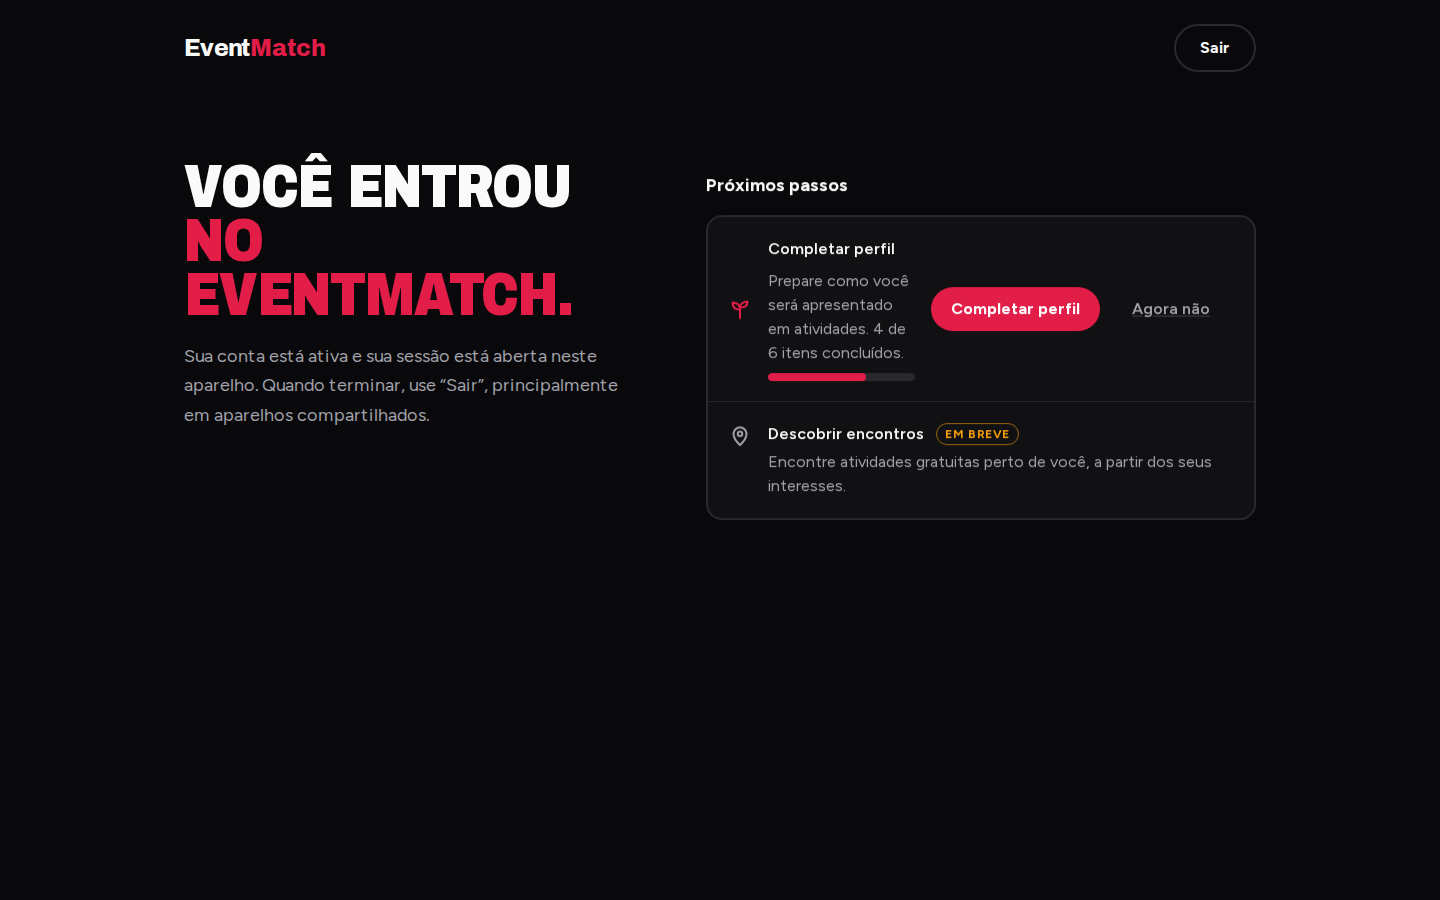
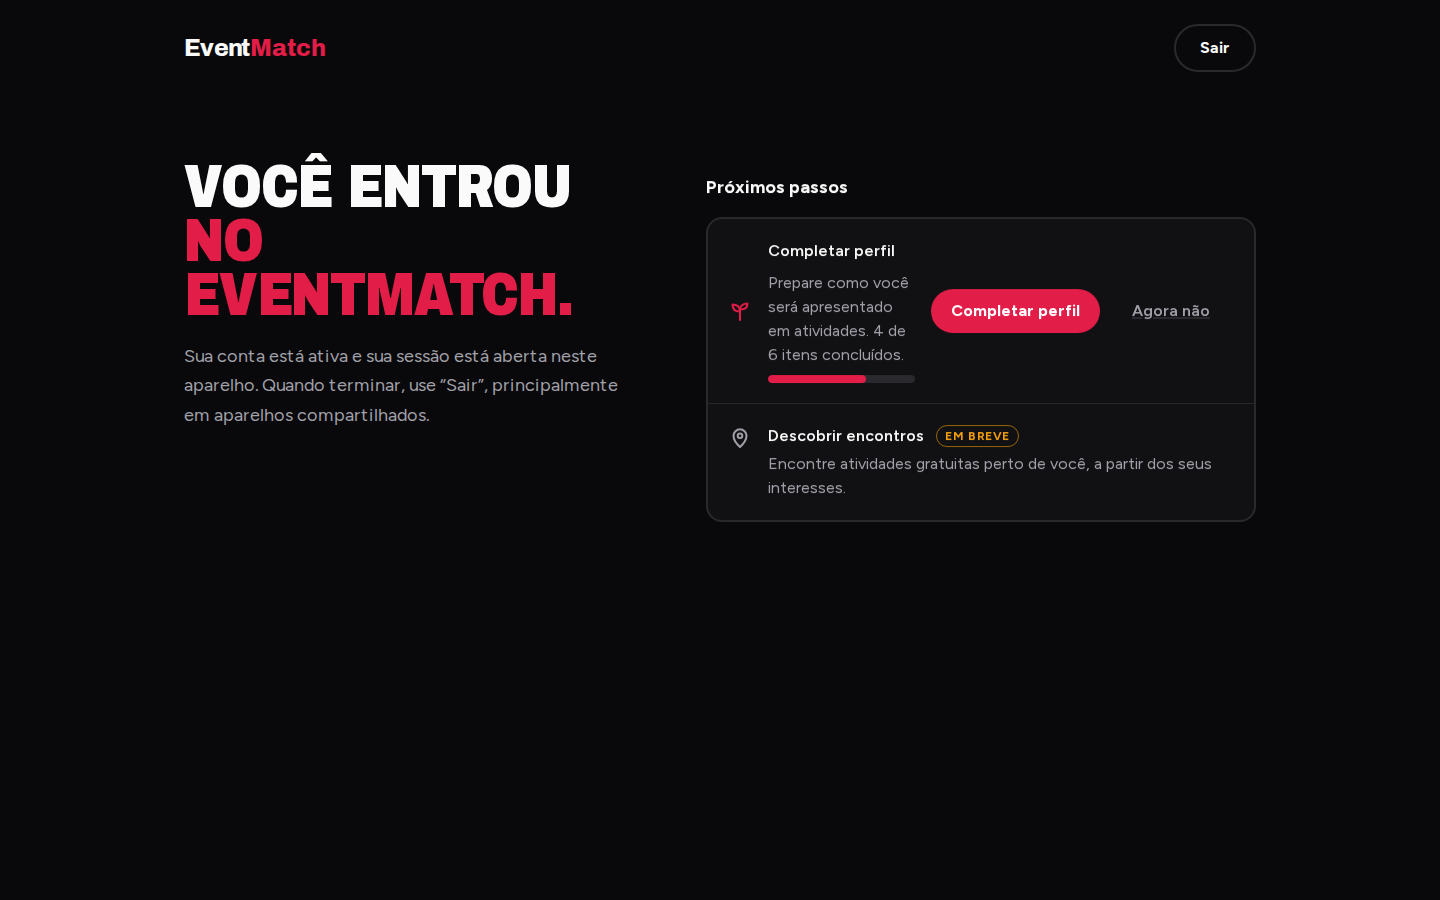
chore(profile): remover dica do LinkedIn e atualizar captura do início
- Remove o texto de ajuda do LinkedIn na presença social, alinhando-o
  aos demais provedores, que já não exibem ajuda.
- Atualiza a captura de revisão `inicio-desktop.png` regenerada pela
  suíte E2E.

diff --git a/front/src/features/profile/messages.ts b/front/src/features/profile/messages.ts
@@ -31,7 +31,7 @@ export const SOCIAL_PROVIDER_LABELS = {
 } as const;
 export const SOCIAL_PROVIDER_HELP = {
   instagram: '',
-  linkedin: 'Use o identificador depois de linkedin.com/in/ ou cole o endereço do perfil.',
+  linkedin: '',
   x: '',
 } as const;
 export const SOCIAL_PROVIDER_PLACEHOLDERS = {
